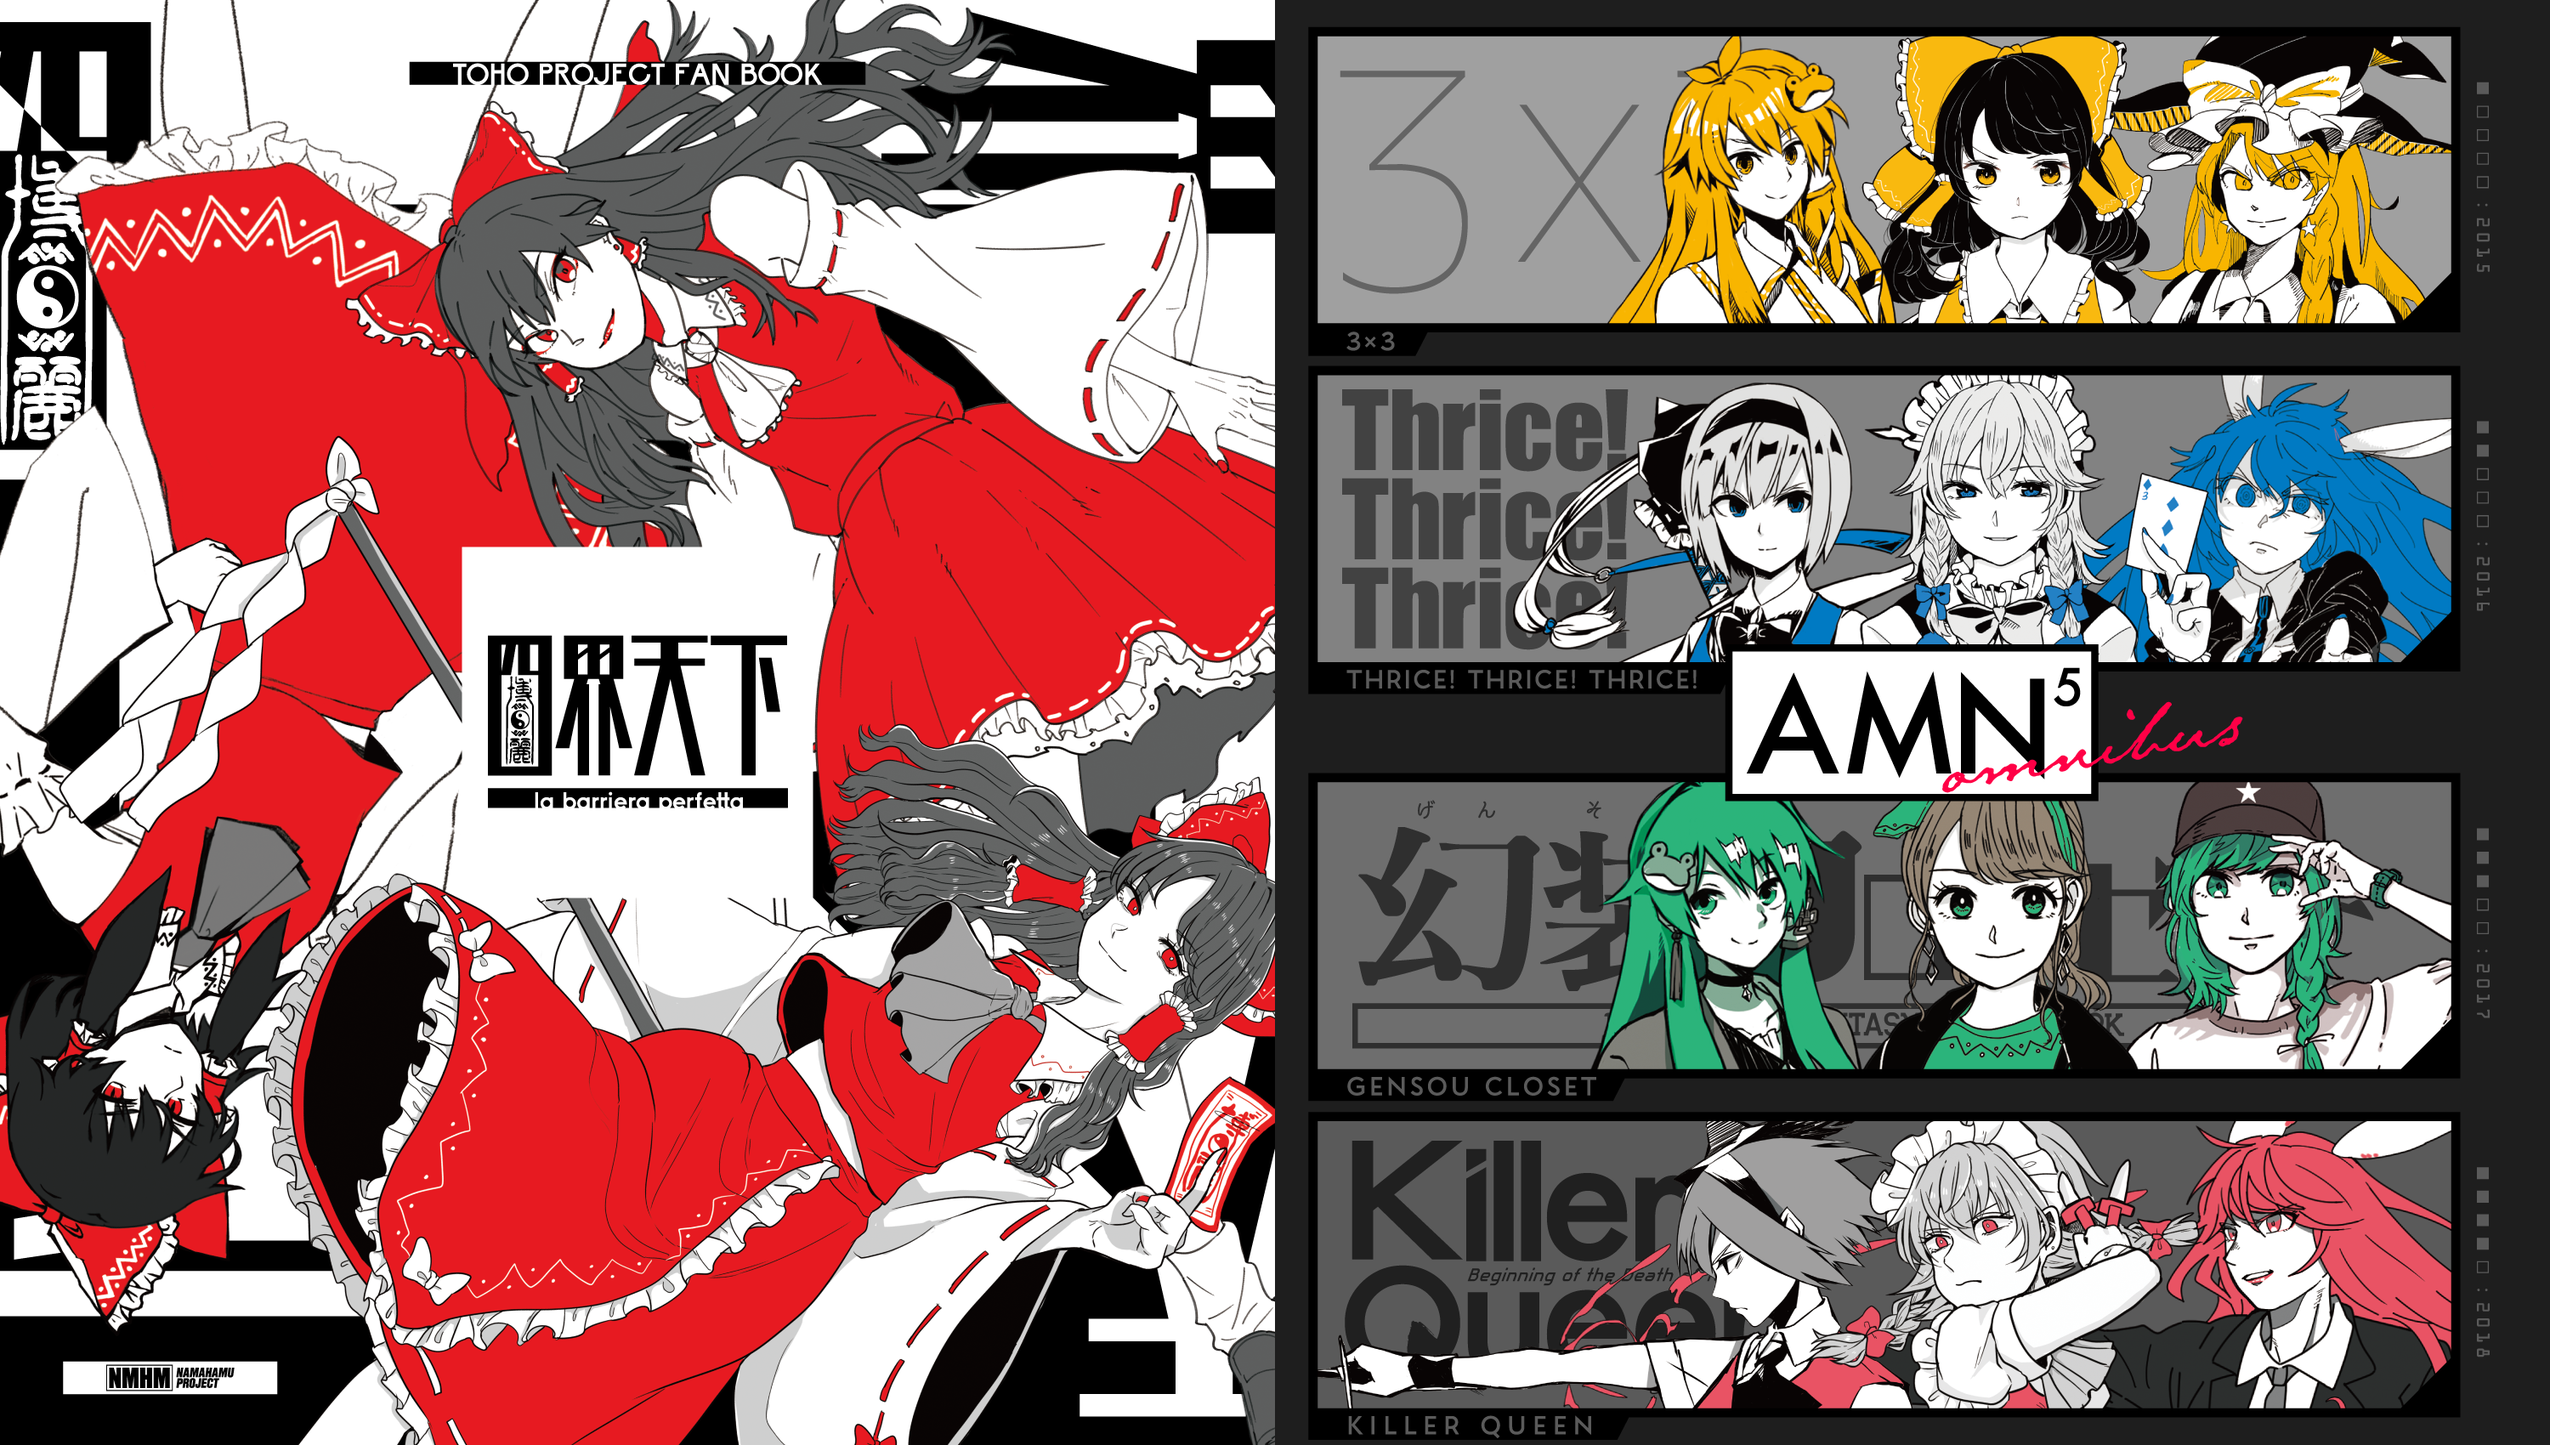
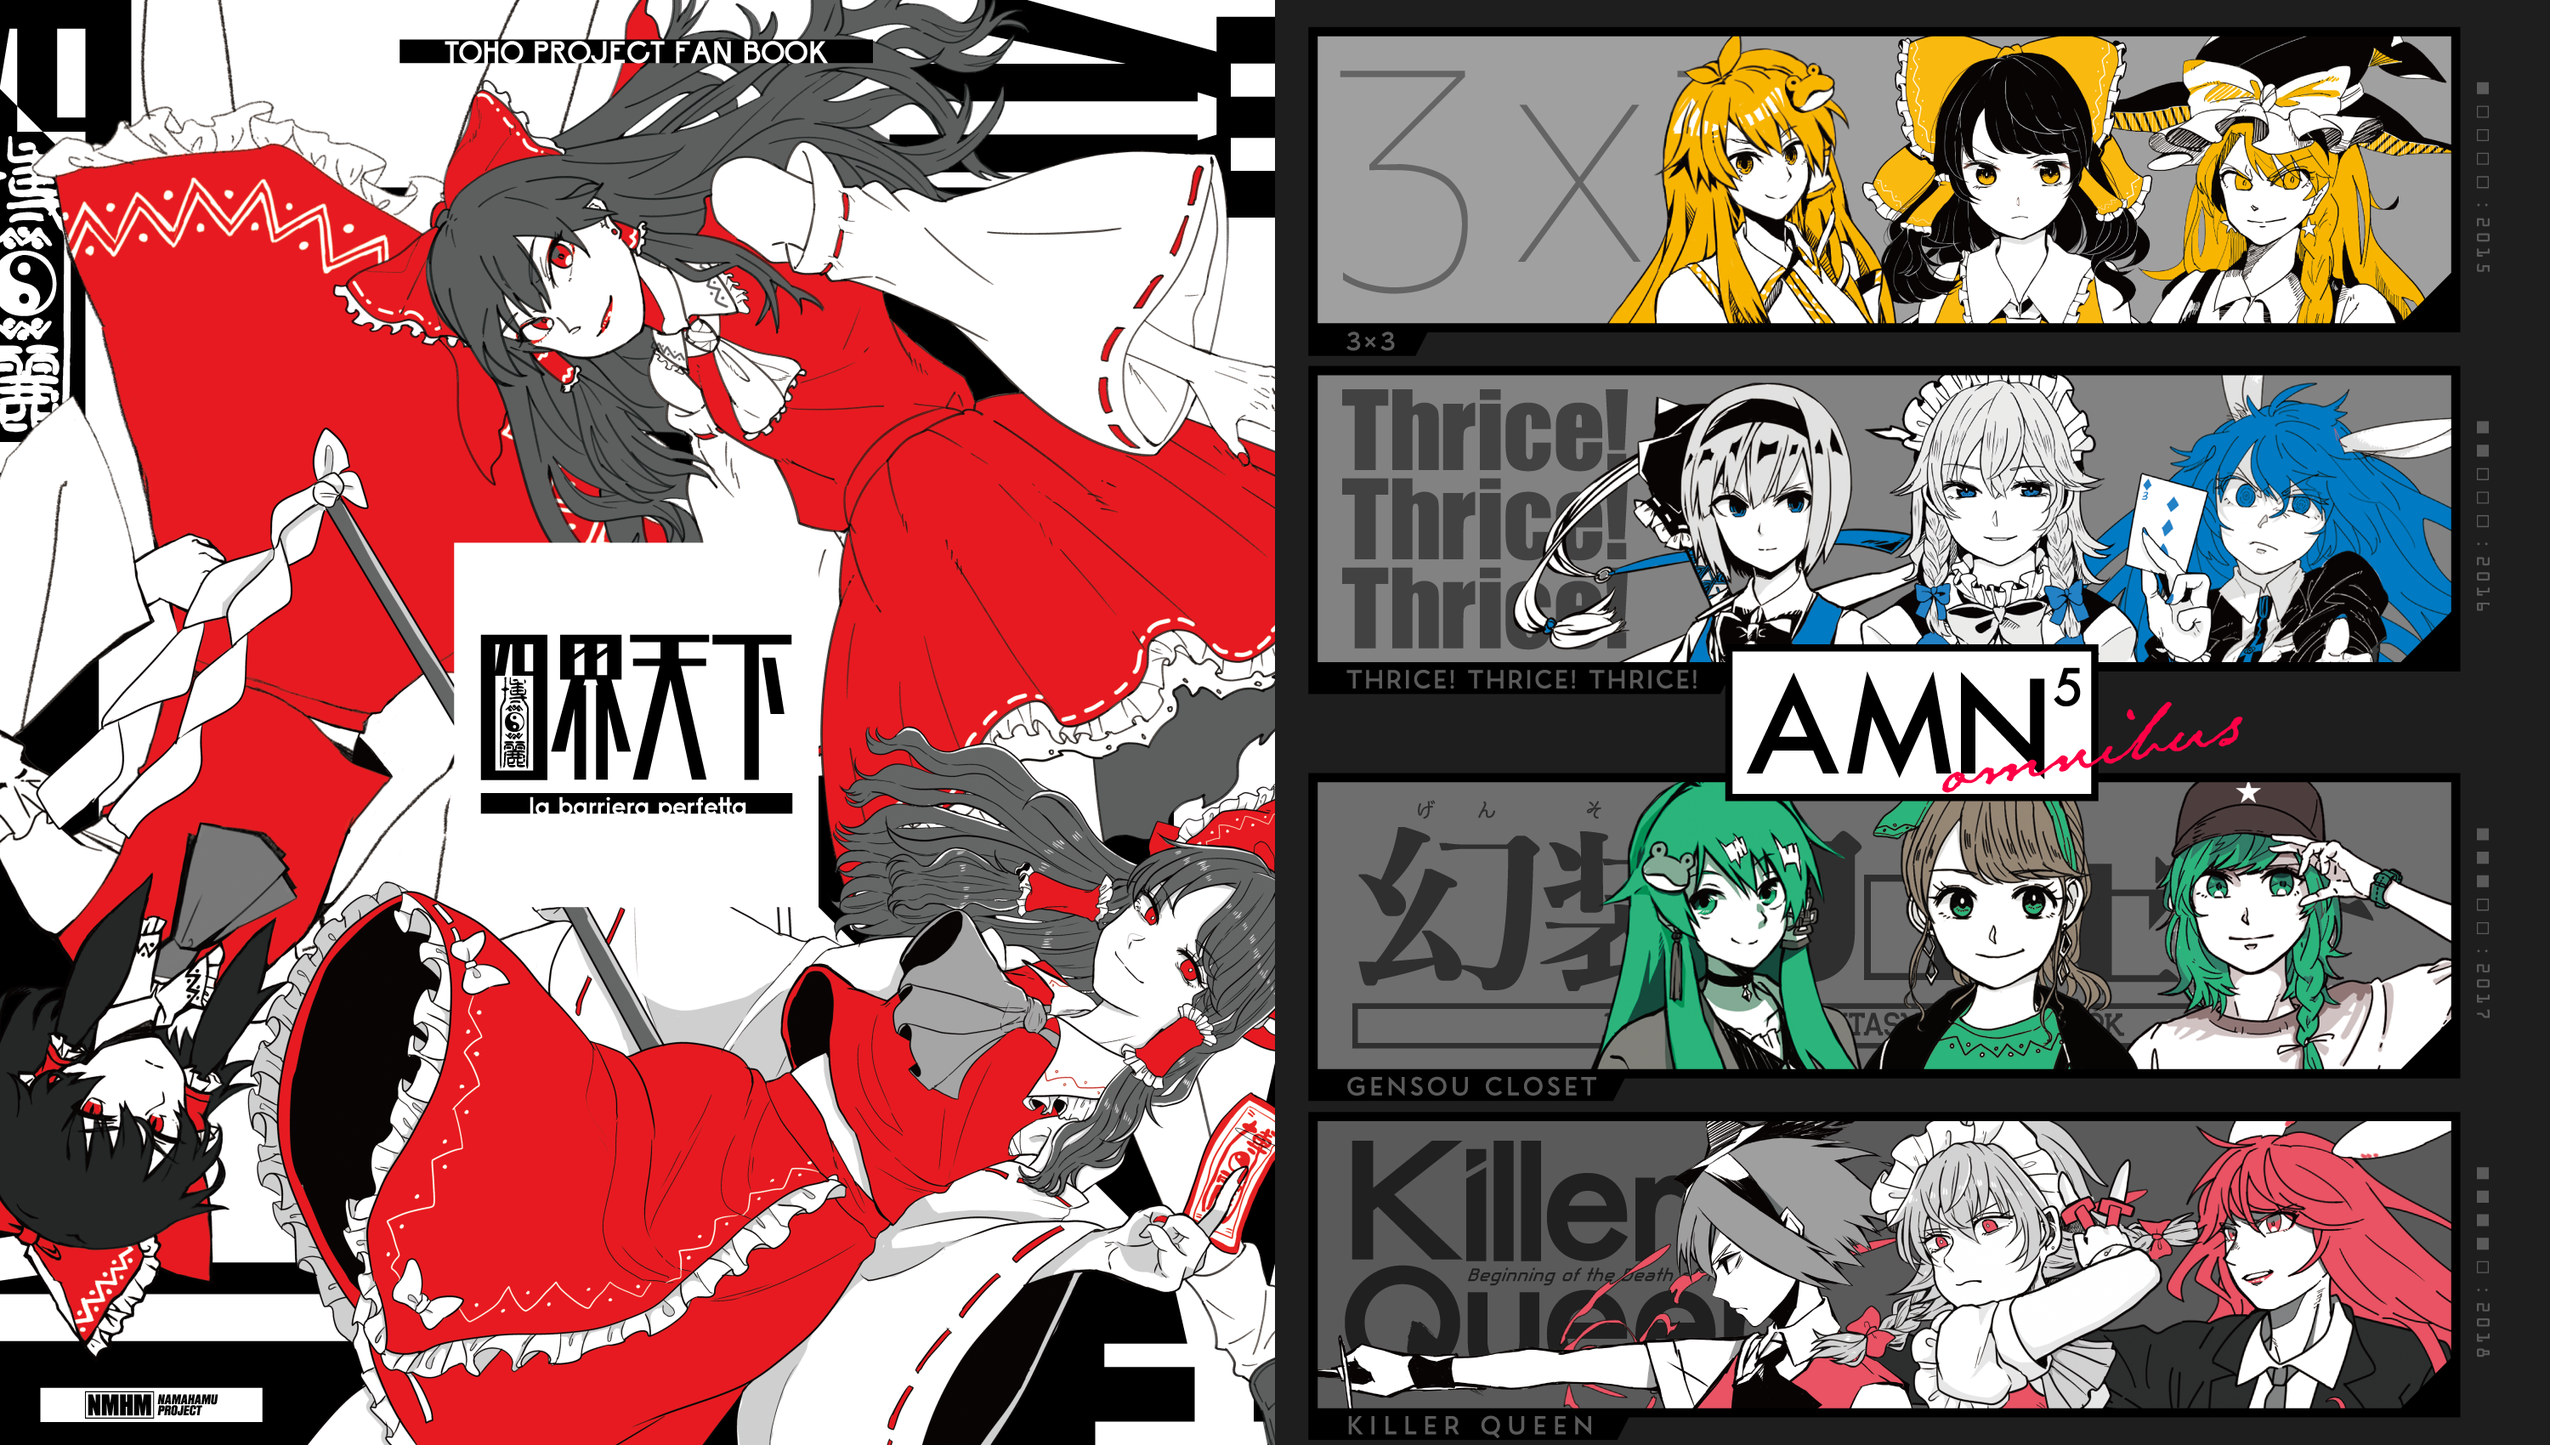
add image and copy と 微調整

Changed region(s): [[0.0, 0.0, 0.527, 1.0]]

diff --git a/src/html/index.html b/src/html/index.html
@@ -9,7 +9,10 @@
       name="keywords"
       content="博麗神社例大祭,例大祭,同人誌,東方Project,東方,間宮春,乳酸菌,荒井あこ,AMN⁵,四界天下,生ハム"
     />
-    <meta name="description" content="" />
+    <meta
+      name="description"
+      content="終わりゆく時代と皐月の幻想郷に、あなたはきっと迷い込む"
+    />
     <meta property="og:title" content="AMN⁵&四界天下" />
     <meta property="og:description" content="AMN⁵&四界天下│生ハム" />
     <meta property="og:type" content="website" />
@@ -51,7 +54,9 @@
           </div>
         </div>
         <div class="header-tweet">
-          <a href="https://twitter.com/intent/tweet?text=AMN⁵%26四界天下│生ハム&url=https://namahamu-project.github.io/amn5/&hashtags=例大祭16,生ハム2019">
+          <a
+            href="https://twitter.com/intent/tweet?text=AMN⁵%26四界天下│生ハム&url=https://namahamu-project.github.io/amn5/&hashtags=例大祭16,生ハム2019"
+          >
             <div class="header-tweet__btn">
               <div class="btn__bg" aria-hidden="true"></div>
               <div class="btn__icon">
@@ -74,18 +79,8 @@
       </div>
       <div class="main__content">
         <section class="about">
-          <p class="about__lead">
-            Lorem ipsum dolor sit amet, consectetur adipiscing elit, sed do
-            eiusmod tempor incididunt ut labore et dolore magna aliqua.
-            <br />
-            Ut enim ad minim veniam, quis nostrud exercitation ullamco laboris
-            nisi ut aliquip ex ea commodo consequat.
-            <br />
-            Duis aute irure dolor in reprehenderit in voluptate velit esse
-            cillum dolore eu fugiat nulla pariatur.
-            <br />
-            Excepteur sint occaecat cupidatat non proident, sunt in culpa
-            quiofficia deserunt mollit anim id est laborum.
+          <p class="about__lead text--bold">
+            終わりゆく時代と皐月の幻想郷に、あなたはきっと迷い込む
           </p>
           <div class="about__arrow" aria-hidden="true">
             <span class="material-icons">arrow_downward</span>
@@ -176,7 +171,7 @@
                 </span>
               </div>
               <div class="book-details__price">
-                A5 XXp ¥1,500
+                A5 24p ¥1,500
               </div>
               <div class="book-details__sample">
                 <div class="book-details__sample__image">

diff --git a/src/scss/main/member.scss b/src/scss/main/member.scss
@@ -12,7 +12,7 @@
 
   .member__nmhmlogo {
     width: 50%;
-    margin: -0.5px 0 60px;
+    margin-bottom: 60px;
 
     @include media-pc {
       width: 40%;

diff --git a/src/scss/main/about.scss b/src/scss/main/about.scss
@@ -10,6 +10,7 @@
   }
 
   .about__lead {
+    font-size: 1.5rem;
     text-align: center;
     line-height: 1.5;
   }
